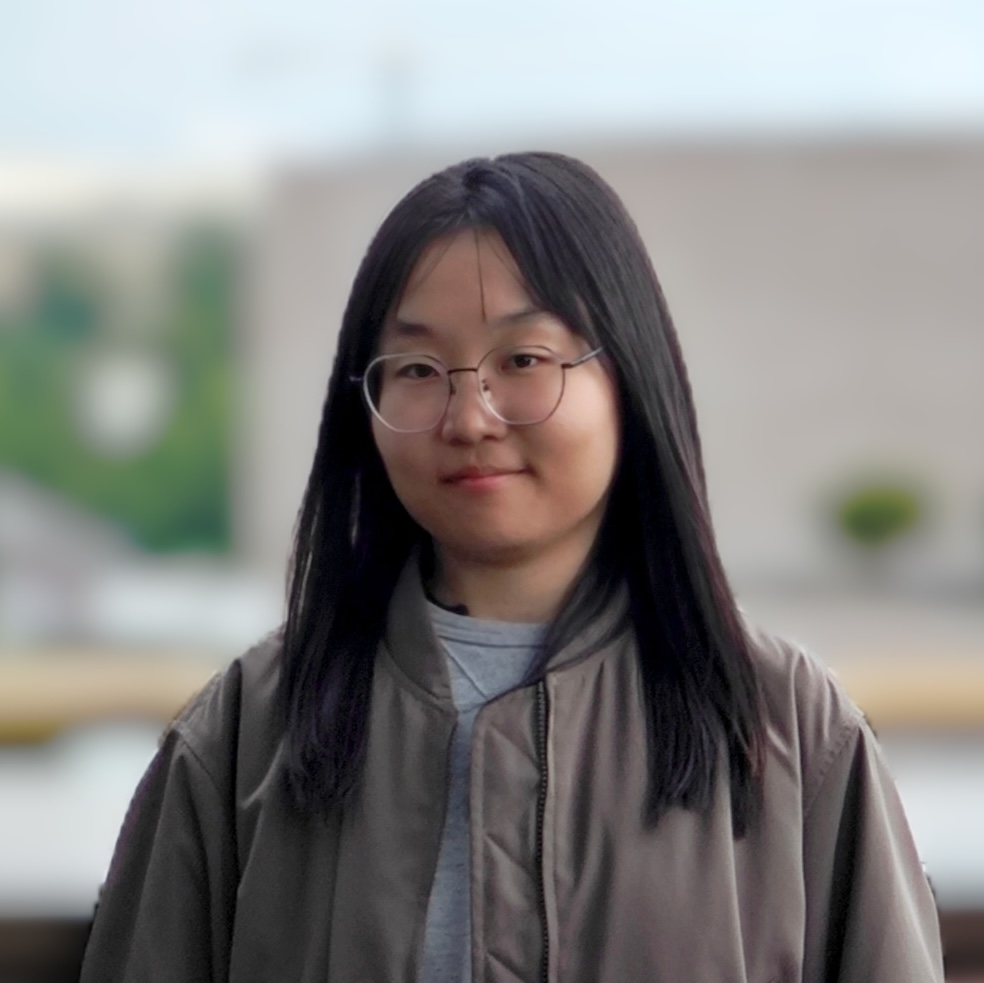
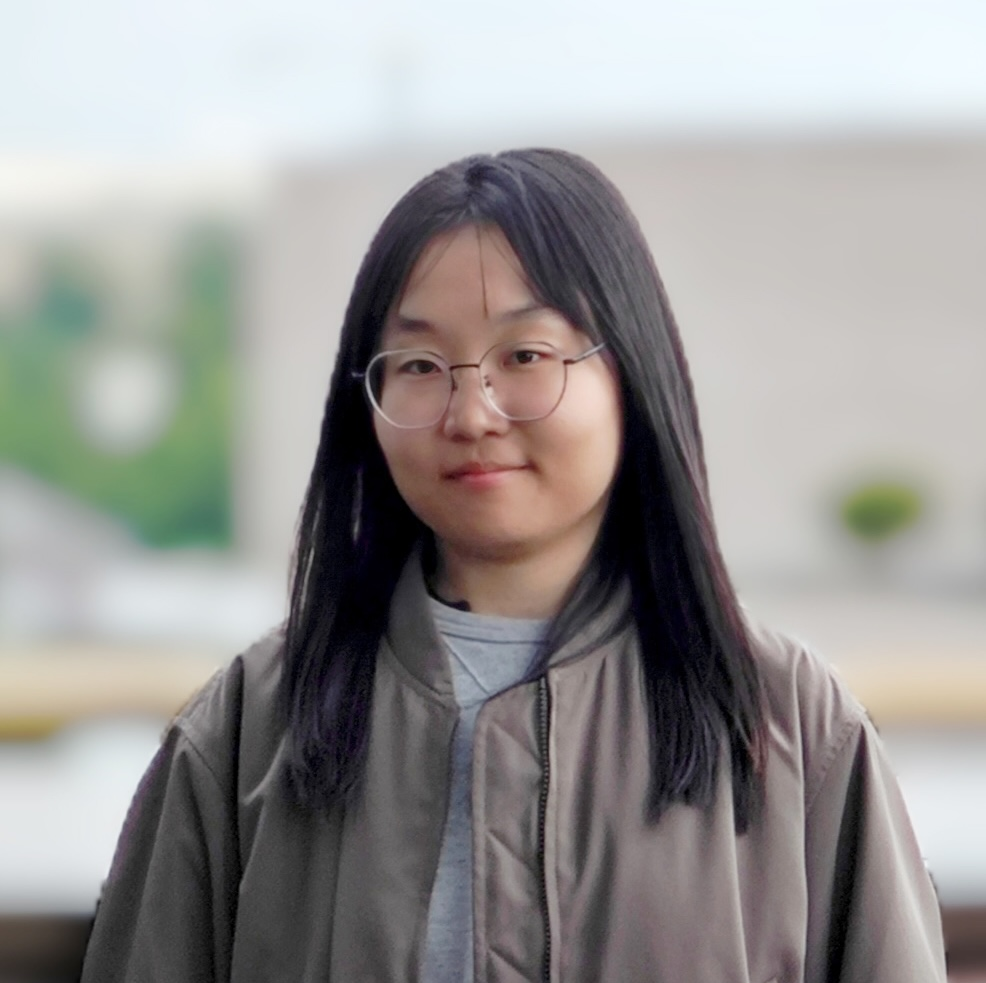
regular update

diff --git a/_site/index.html b/_site/index.html
@@ -5,7 +5,7 @@
   <meta charset="utf-8">
   <title>Home | Jie Gao (高洁)</title>
   <link rel="stylesheet" href="/assets/libs/bootstrap/bootstrap.min.css">
-  <script defer src="/assets/libs/fontawesome/all.min.js"></script>
+  <link rel="stylesheet" href="https://cdnjs.cloudflare.com/ajax/libs/font-awesome/6.5.1/css/all.min.css">
   <link rel="stylesheet" href="/assets/css/main.css">
   <link rel="apple-touch-icon" sizes="152x152" href="/assets/apple-icon-152x152.png">
   <link rel="shortcut icon" href="/assets/favicon.ico">
@@ -21,9 +21,9 @@
   </div>
   <nav class="d-inline-flex mt-2 mt-md-0 ms-md-auto ">
     
-    <a class="me-3 py-2 fw-bold " href="https://scholar.google.com/citations?user=U7KDGDsAAAAJ&hl=en" target="_blank" style="color: #393939;">Google Scholar</a>
+    <a class="me-3 py-2 fw-bold " href="https://scholar.google.com/citations?user=U7KDGDsAAAAJ&hl=en" target="_blank" style="color: #393939;"><i class="fab fa-google-scholar" style="color: #568ed3;"></i> Google Scholar</a>
     
-    <a class="me-3 py-2 fw-bold " href="assets/img/CV_Jie.pdf" target="_blank" style="color: #393939;">CV</a>
+    <a class="me-3 py-2 fw-bold " href="assets/img/CV_Jie.pdf" target="_blank" style="color: #393939;"><i class="fas fa-file-alt" style="color: #568ed3;"></i> CV</a>
       
   </nav>
 </header>
@@ -54,29 +54,43 @@ Prior to this, I did one-year postdoctoral research in [Mens, Manus, and Machina
           <p>
             
             
+                2025.05 🚀 I will serve as an Associate Chair for CHI2026 again this year.
+            
+          </p>
+      
+          <p>
+            
+            
+                2025.05 🚀 I attended CHI 2025 conference in Japan, and met a lot of old and new friends!
+            
+          </p>
+      
+          <p>
+            
+            
                 
                 2025.04 🌟 We introduce <a href="https://mindcoder.ai/">mindcoder.ai</a>, a web application designed to support automated qualitative analysis. The user only needs to follow three steps to obtain qualitative analysis results-1) upload data, 2) start coding, and 3) get analysis report! See how to use-<a href="https://www.youtube.com/watch?v=a0mOkOrmVWg&ab_channel=JieGAO">video</a>.
-            
-          </p>
-      
-          <p>
-            
-            
-                2025.03 🚀 Started my postdoc fellowship at Johns Hopkins University!
-            
-          </p>
-      
-          <p>
-            
-            
-                
-                2024.12 🚀 I will join the <a href="https://malonecenter.jhu.edu/welcoming-the-new-cohort-of-malone-postdoctoral-fellows/">Malone postdoctoral fellow program</a> at <a href="https://www.jhu.edu/">Johns Hopkins University</a> next March! I will be working with <a href="https://www.cs.jhu.edu/~mdredze/">Mark Dredze</a>, <a href="https://www.ziangxiao.com/">Ziang Xiao</a> and <a href="https://www.cs.jhu.edu/~cmhuang/">Chien-Ming Huang</a> to explore the potential of LLM in qualitative analysis methodology usage in healthcare.
             
           </p>
       
       
       <button class="button-80" id="loadMore" onclick="loadMore()" role="button">Load More</button>
         <div id="hiddenUpdates" style="display: none;">
+            
+                <p>
+                    
+                    
+                        2025.03 🚀 Started my postdoc fellowship at Johns Hopkins University!
+                    
+                </p>
+            
+                <p>
+                    
+                    
+                        
+                        2024.12 🚀 I will join the <a href="https://malonecenter.jhu.edu/welcoming-the-new-cohort-of-malone-postdoctoral-fellows/">Malone postdoctoral fellow program</a> at <a href="https://www.jhu.edu/">Johns Hopkins University</a> next March! I will be working with <a href="https://www.cs.jhu.edu/~mdredze/">Mark Dredze</a>, <a href="https://www.ziangxiao.com/">Ziang Xiao</a> and <a href="https://www.cs.jhu.edu/~cmhuang/">Chien-Ming Huang</a> to explore the potential of LLM in qualitative analysis methodology usage in healthcare.
+                    
+                </p>
             
                 <p>
                     

diff --git a/_site/contact.html b/_site/contact.html
@@ -5,7 +5,7 @@
   <meta charset="utf-8">
   <title>Contact | Jie Gao (高洁)</title>
   <link rel="stylesheet" href="/assets/libs/bootstrap/bootstrap.min.css">
-  <script defer src="/assets/libs/fontawesome/all.min.js"></script>
+  <link rel="stylesheet" href="https://cdnjs.cloudflare.com/ajax/libs/font-awesome/6.5.1/css/all.min.css">
   <link rel="stylesheet" href="/assets/css/main.css">
   <link rel="apple-touch-icon" sizes="152x152" href="/assets/apple-icon-152x152.png">
   <link rel="shortcut icon" href="/assets/favicon.ico">
@@ -21,9 +21,9 @@
   </div>
   <nav class="d-inline-flex mt-2 mt-md-0 ms-md-auto ">
     
-    <a class="me-3 py-2 fw-bold " href="https://scholar.google.com/citations?user=U7KDGDsAAAAJ&hl=en" target="_blank" style="color: #393939;">Google Scholar</a>
+    <a class="me-3 py-2 fw-bold " href="https://scholar.google.com/citations?user=U7KDGDsAAAAJ&hl=en" target="_blank" style="color: #393939;"><i class="fab fa-google-scholar" style="color: #568ed3;"></i> Google Scholar</a>
     
-    <a class="me-3 py-2 fw-bold " href="assets/img/CV_Jie.pdf" target="_blank" style="color: #393939;">CV</a>
+    <a class="me-3 py-2 fw-bold " href="assets/img/CV_Jie.pdf" target="_blank" style="color: #393939;"><i class="fas fa-file-alt" style="color: #568ed3;"></i> CV</a>
       
   </nav>
 </header>
@@ -35,8 +35,6 @@
   <div>
     <!-- <h3 class="fw-bold border-bottom pb-3 mb-5">Contact</h3> -->
     <p>I am open and eager to work with undergraduate and master's students! Feel free to reach out to me for a chat!</p>
-    
-      <p>Email: jie.gao[at]smart.mit.edu</p>
     
   </div>
 </div>

diff --git a/_includes/head.html b/_includes/head.html
@@ -3,7 +3,7 @@
   <meta charset="utf-8">
   <title>{{ page.title }} | {{ site.title }}</title>
   <link rel="stylesheet" href="{{ site.github.url }}/assets/libs/bootstrap/bootstrap.min.css">
-  <script defer src="{{ site.github.url }}/assets/libs/fontawesome/all.min.js"></script>
+  <link rel="stylesheet" href="https://cdnjs.cloudflare.com/ajax/libs/font-awesome/6.5.1/css/all.min.css">
   <link rel="stylesheet" href="{{ site.github.url }}/assets/css/main.css">
   <link rel="apple-touch-icon" sizes="152x152" href="{{ site.github.url }}/assets/apple-icon-152x152.png">
   <link rel="shortcut icon" href="{{ site.github.url }}/assets/favicon.ico">

diff --git a/assets/css/main.scss b/assets/css/main.scss
@@ -1,6 +1,6 @@
 ---
 ---
 
-@import "main";
-// @import "../../_sass/main";
+// @import "main";
+@import "../../_sass/main";
 
